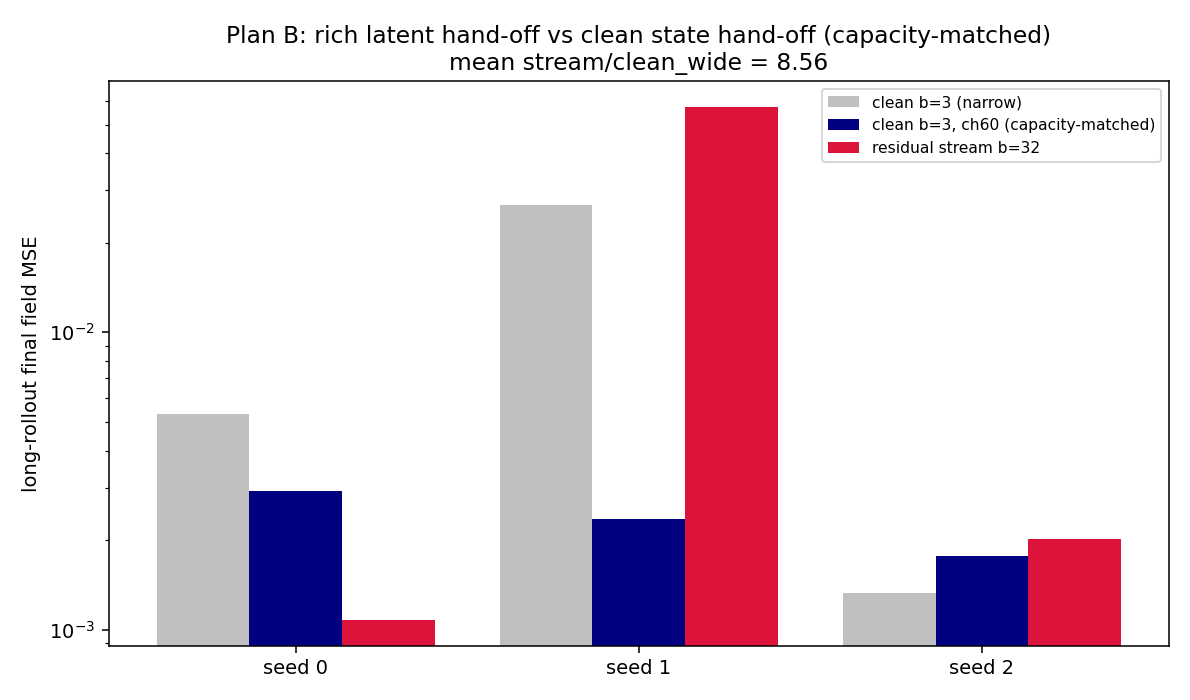
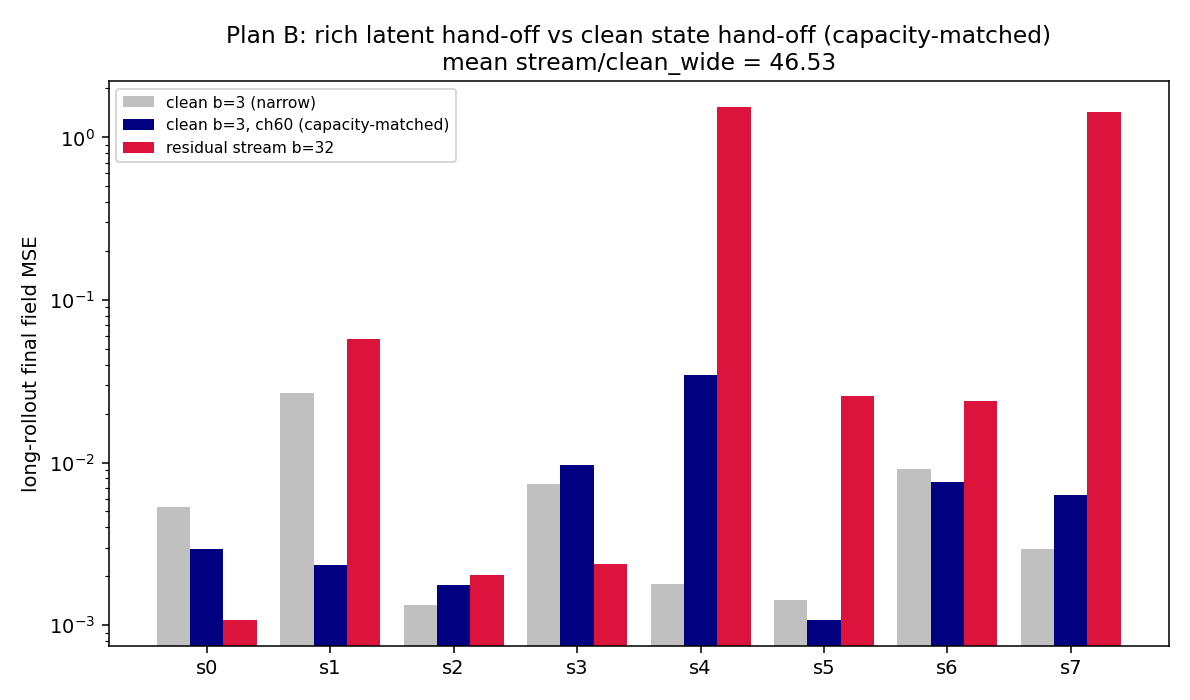
Hail Mary Exp 4 stress test (8 seeds): Plan B verdict strengthened -- diverges ~half the time, 46x worse
8-seed re-run of the capacity-matched Plan A vs Plan B comparison. clean_wide (Plan A)
never diverges (mean 8.3e-3); stream (Plan B) diverges on 4/8 seeds, wins 2/8, mean 46x
worse. The 3-seed read understated it. Verdict now solid: clean hand-off robust, residual
stream not (needs serious stabilization). Stress-testing converted tentative -> decisive.

diff --git a/curvature/notes/hail_mary.md b/curvature/notes/hail_mary.md
@@ -177,3 +177,13 @@ Three walls, mapped and individually addressed on the Maxwell NR-warm-up; two ha
 The modular "decompose + enforce structure by construction + train for stability" recipe works on the baby
 GR-analogue; the clean hand-off is the robust choice. Next rungs: harder gauge (potential evolution), then climb
 to scalar-field collapse (Choptuik).
+
+### Experiment 4 STRESS TEST (8 seeds), 2026-06-20 — verdict strengthened, not overturned
+Re-ran capacity-matched Plan A (clean_wide) vs Plan B (stream) at 8 seeds (north star: a 3-seed robustness claim
+is itself not robust). Decisive: clean_wide mean 8.3e-3 / max 3.5e-2, NEVER diverges; stream mean 3.86e-1
+(46x WORSE) / max 1.54, DIVERGES on 4/8 seeds (>10x clean), wins only 2/8. The earlier 3-seed read (1 divergence)
+UNDERSTATED how unreliable the residual stream is. **Verdict (now solid): Plan A (clean modular hand-off) is
+robust; Plan B (residual stream) is NOT -- it diverges ~half the time.** The clean, checkable hand-off is the
+right default; the stream has real upside (won 2/8, sometimes big) but its instability makes it unusable without
+serious stabilization (the opaque end-to-end latent hand-off is hard to train stably). Stress-testing converted
+a tentative finding into a decisive one -- exactly its job.
